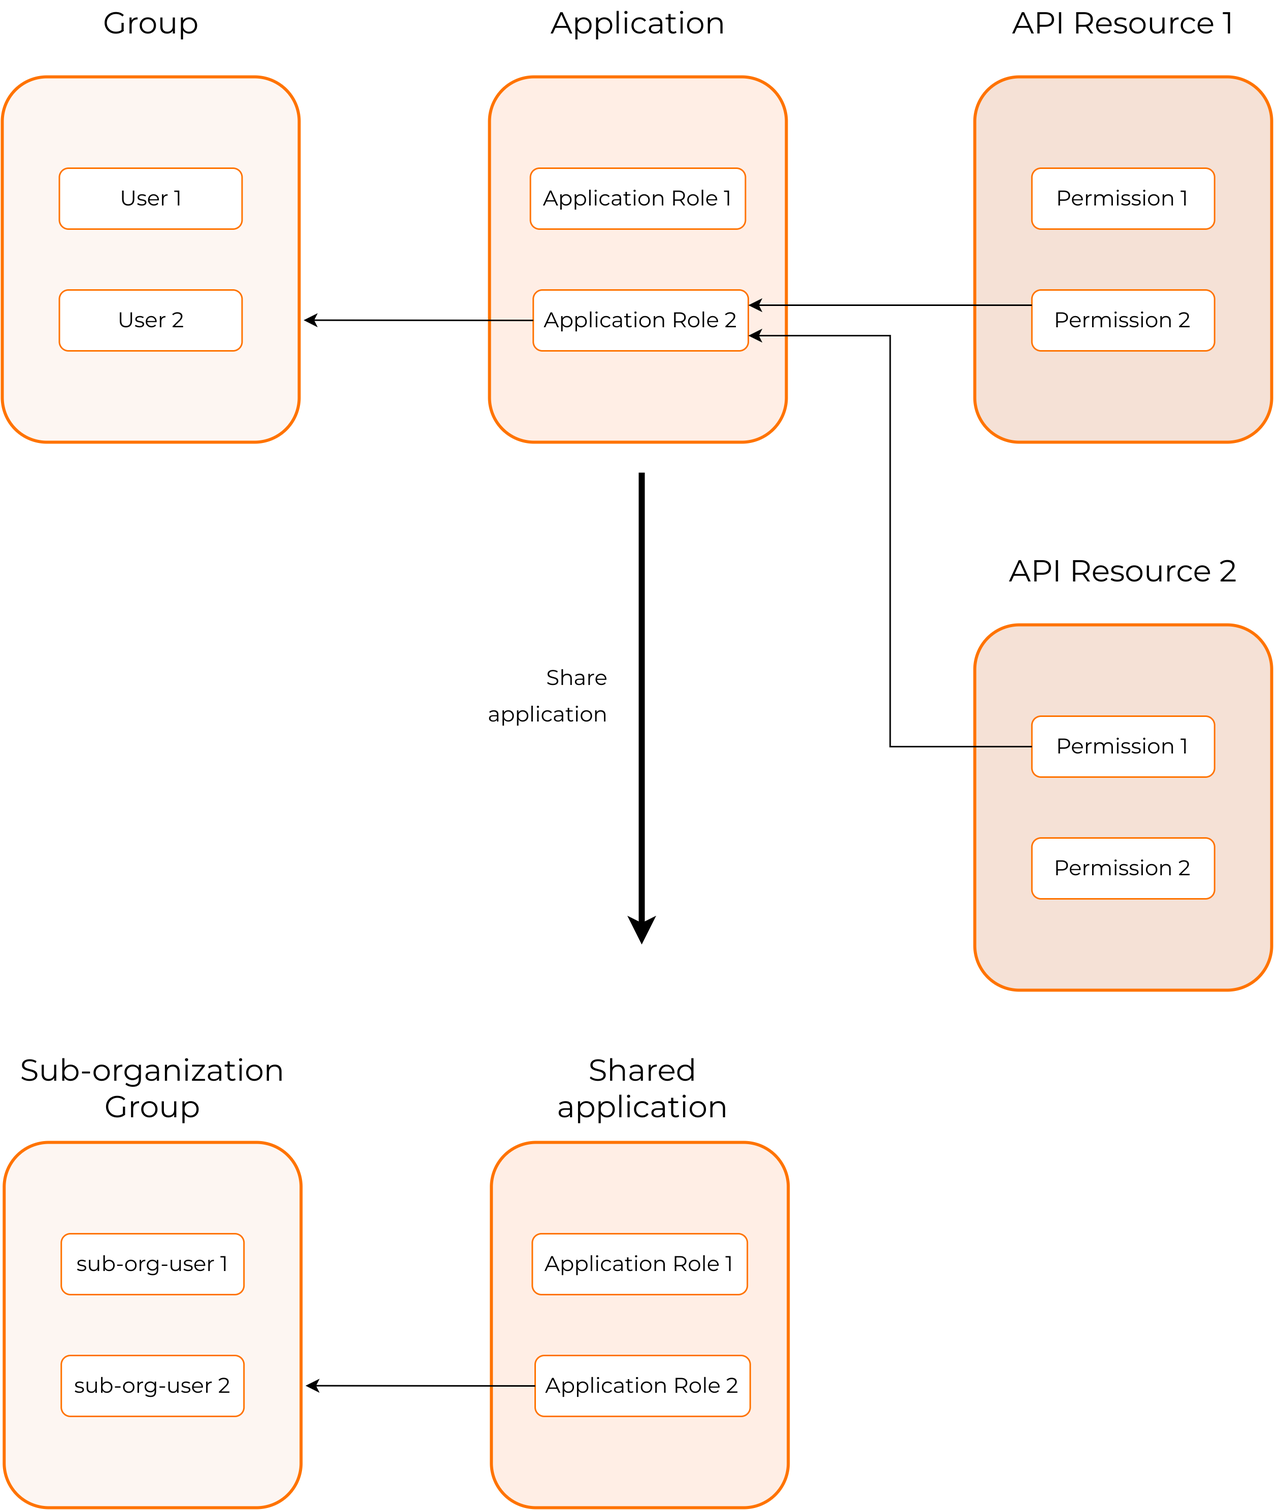
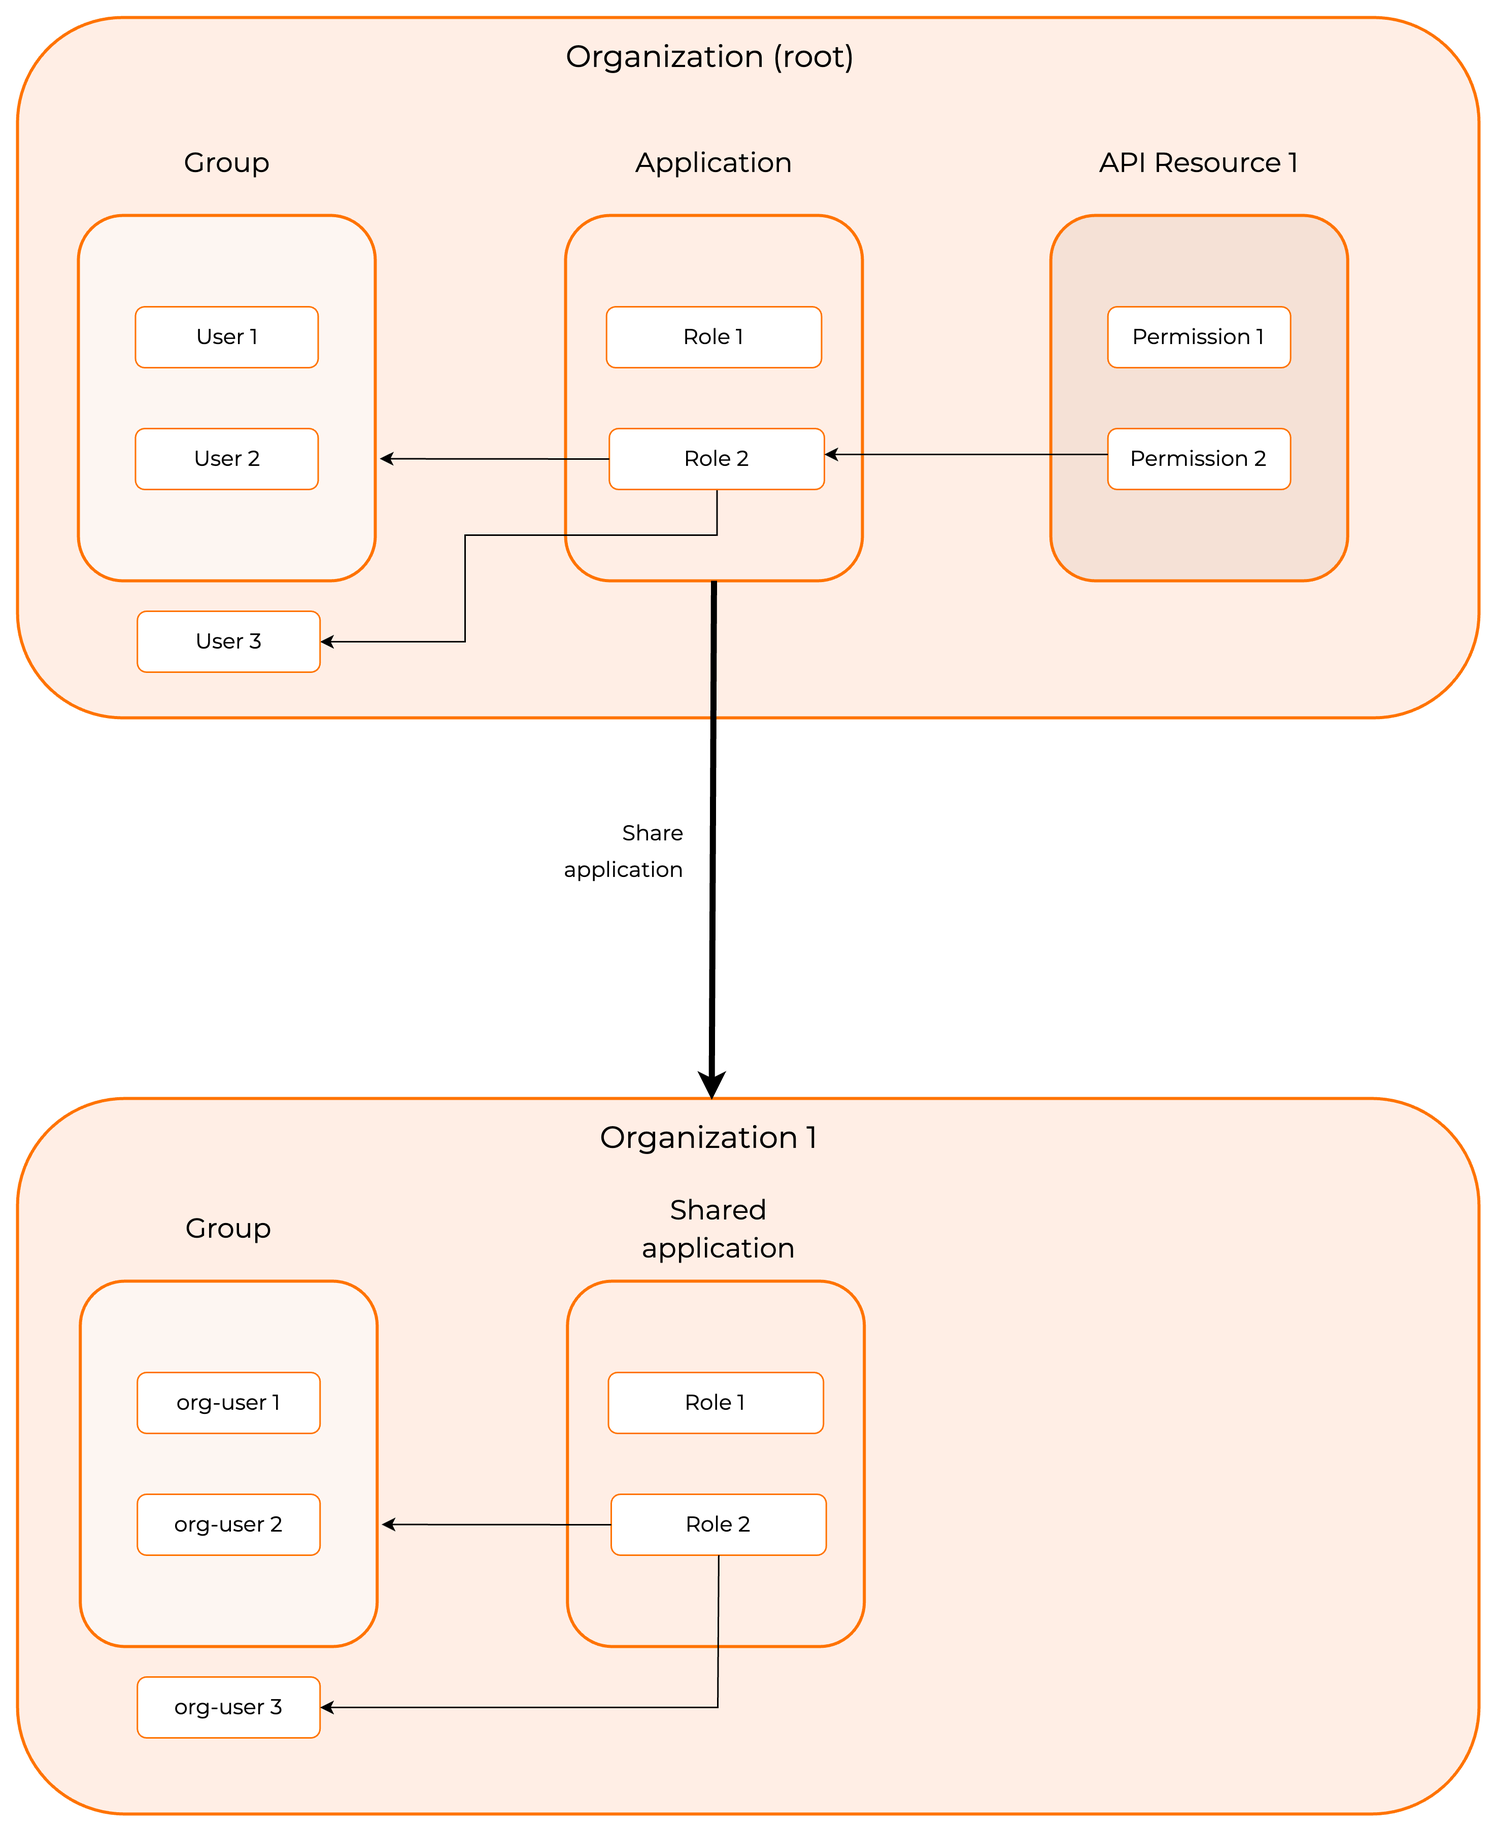
update terminology and images in try b2b use case doc and api authz doc

diff --git a/en/identity-server/next/docs/guides/organization-management/try-a-b2b-use-case.md b/en/identity-server/next/docs/guides/organization-management/try-a-b2b-use-case.md
@@ -1,2 +1,259 @@
 {% set product_name = "WSO2 Identity Server" %}
-{% include "../../../../../includes/guides/organization-management/manage-b2b-organizations/try-a-b2b-use-case.md" %}
+{% set host_name = "localhost:9443" %}
+
+# Try a B2B use case (login through organization)
+
+The following guide is a complete end-to-end use case on how to manage B2B (Business-to-Business) applications in {{ product_name }}.
+
+## Scenario
+
+You are an administrator of **Guardio Insurance**, which is a company that provides its services to other business organizations.
+
+**Best Car Mart** has a partnership with Guardio Insurance to provide life insurance policies to its employees. Guardio Insurance exposes its services to Best Car Mart's employees through its **Guardio Insurance App**.
+
+The employees of Best Car Mart should be able to log in to the Guardio Insurance App to consume its services. The administrators of Best Car Mart will manage the users of its organization and also determine the login experience that their users should have.
+
+![Organizatoin login scenario]({{base_path}}/assets/img/guides/organization/manage-organizations/organization-login-scenario.png){: width="600" style="display: block; margin: 0 auto;"}
+
+## Set up the organization
+
+As the administrator of **Guardio Insurance**, you need to first set up an organization.
+
+### Step 1: Onboard the organization
+
+[Create an organization]({{base_path}}/guides/organization-management/manage-organizations/#create-an-organization) on the {{ product_name }} Console with `Best Car Mart` as the **Organization Name**.
+
+### Step 2: Onboard an organization administrator
+
+[Onboard an administrator]({{base_path}}/guides/organization-management/manage-b2b-administration/#onboard-organization-administrators) to the Best Car Mart organization using the values given below.
+
+<table>
+    <tr>
+        <th>Username</th>
+        <td>Enter a username..</br>
+            <code>alex</code>
+        </td>
+    </tr>
+    <tr>
+        <th>First Name</th>
+        <td>Enter the first name of the user.</br>
+            <code>Alex</code>
+        </td>
+    </tr>
+    <tr>
+        <th>Last Name</th>
+        <td>Enter the last name of the user.</br>
+            <code>Doe</code>
+        </td>
+    </tr>
+    <tr>
+        <th>Email Address</th>
+        <td>Enter the email address of the user.</br>
+            <code>alex@carmart.com</code>
+        </td>
+    </tr>
+    <tr>
+        <th>Password</th>
+        <td>Set a temporary password for the user.</td>
+    </tr>
+</table>
+
+## Set up the app
+The following guides explain how you can share an application with organizations and allow organization users to log in to it using **SSO**.
+
+Let's use the sample application, [Guardio Insurance app](https://github.com/wso2/samples-is/releases/download/v4.5.3/b2b-sample.zip), to explore this use case.
+
+### Step 1: Register the app on {{ product_name }}
+
+Follow the steps given below to register the Guardio Insurance App with {{ product_name }}.
+
+1. Login to organization (root).
+2. [Register a standard-based application]({{base_path}}/guides/applications/register-standard-based-app/) in your organization (root) with the following settings:
+
+    <table>
+        <tr>
+            <th>Application Name</th>
+            <td>Add a name for the application.</br>
+                <code>Guardio App</code>
+            </td>
+        </tr>
+        <tr>
+            <th>Protocol</th>
+            <td>The authentication protocol to use.</br>
+                <code>OAuth2.0 OpenID Connect</code>
+            </td>
+        </tr>
+        <tr>
+            <th>Management Application</th>
+            <td>Select this checkbox to indicate that the application has access to {{ product_name }}'s management APIs.</td>
+        </tr>
+    </table>
+
+### Step 2: Share the app with organizations
+
+Share the <b>Guardio Insurance app</b> with your <b>Best Car Mart</b> sub organization. See instructions on how to [share applications with organizations]({{base_path}}/guides/organization-management/share-applications/).
+
+By doing so, you enable **Sign In with SSO** as a login option in the application login screen, which organization users can use to log in.
+
+### Step 3: Configure the app on {{ product_name }}
+To configure the registered application on {{ product_name }}:
+
+1. On the {{ product_name }} Console, go to **Applications** and select the application you registered.
+2. Go to the **Protocol** tab of the application, configure the following values.
+
+    !!! note
+        Note that the `Organization Switch` grant will only be visible after you share the application with organizations.
+
+    <table>
+        <tr>
+            <th>Allowed Grant Types</th>
+            <td> Select the following grant types:
+                <ul>
+                    <li>Client Credential</li>
+                    <li>Code</li>
+                    <li>Organization Switch</li>
+                </ul>
+            </td>
+        </tr>
+        <tr>
+            <th>Authorization Redirect URL</th>
+            <td>Enter the URLs of the application to which users should be redirected after login and logout.</br>
+                <ul>
+                    <li><code>http://localhost:3000/api/auth/callback/wso2is</code></li>
+                    <li><code>http://localhost:3000</code></li>
+                </ul>
+            </td>
+        </tr>
+        <tr>
+            <th>Allowed Origins</th>
+            <td>Enter the allowed origins.</br>
+                <code>http://localhost:3000</code>
+            </td>
+        </tr>
+    </table>
+    
+    Take note of the `client_id` and `client_secret` generated for your application.
+
+3. Click **Update** to save your configurations.
+
+### Step 4: Set up the client app
+
+To set up the client application:
+
+1. Open the `config.json` file found in the `b2b-sample/guardio-insurance-sample-application` folder and update the following parameters:
+
+    <table>
+        <tr>
+            <th>Parameter</th>
+            <th>Description</th>
+            <th>Value</th>
+        </tr>
+        <tr>
+            <td><code>BaseOrganizationUrl</code></td>
+            <td>The base URL of the organization.</td>
+            <td><code>https://{{ host_name }}/t/{organization-name}</code>
+            </td>
+        </tr>
+        <tr>
+            <td><code>ClientId</code></td>
+            <td>The client ID of the application created on {{ product_name }}.</td>
+            <td>Client ID copied from step 1 above.</td>
+        </tr>
+        <tr>
+            <td><code>ClientSecret</code></td>
+            <td>The client secret of the application created on {{ product_name }}.</td>
+            <td>Client secret copied from step 1 above.</td>
+        </tr>
+        <tr>
+            <td><code>HostedUrl</code></td>
+            <td>The URL of the client application.</td>
+            <td><code>http://localhost:3000</code></td>
+        </tr>
+        <tr>
+            <td><code>APIScopes</code></td>
+            <td>The scopes required by the application to access user resources.</td>
+            <td><code>openid</code>, <code>email</code>, <code>internal_login</code>, etc.</td>
+        </tr>
+        <tr>
+            <td><code>Branding.name</code></td>
+            <td>The branding name of your application.</td>
+            <td><code>Guardio Insurance</code></td>
+        </tr>
+        <tr>
+            <td><code>Branding.tag</code></td>
+            <td>A branding tag line for your application.</td>
+            <td><code>Anytime . Anywhere</code></td>
+        </tr>
+        <tr>
+            <td><code>SharedApplicationName</code></td>
+            <td>The application name you used to register the application in {{ product_name }}.</td>
+            <td><code>Guardio Insurance App</code></td>
+        </tr>
+        <tr>
+            <td><code>ImageBaseUrl</code></td>
+            <td>Add the URL of {{ product_name }} Console to load images required for the sample application.</td>
+            <td><code>https://console.asgardeo.io</code></td>
+        </tr>
+    </table>
+   
+    !!! note
+        Remove the `SampleOrganization` section from the `config.json` file as it is not required for {{ product_name }} configurations.
+
+2. To start the application, open a terminal, navigate to the `b2b-sample/guardio-insurance-sample-application` folder and execute the following commands:
+
+    ```bash
+    npm install
+    ```
+
+    ```bash
+    npm run dev
+    ```
+
+## Try it out
+
+The following guides explain how an organization user can log in to the sample application, **Guardio Insurance App** and how an organization administrator can use the built-in administration portal.
+
+### Try out Sign In with SSO
+
+Follow the steps below to see how organization login works for a user in the **Best Car Mart** organization when logging into **Guardio Insurance App**.
+
+1. Open the application by copying the following URL to your browser: `http://localhost:3000/`
+
+    ![Guardio Application Login]({{base_path}}/assets/img/guides/organization/manage-organizations/guardio-app-login.png){: style="display: block; margin: 0 auto; border: 0.3px solid lightgrey;"}
+
+2. Click **Sign In** and see that you are diverted to the {{ product_name }} login screen.
+
+3. Click **Sign In with SSO** to specify the organization to which you are signing in.
+
+4. Enter **Best Car Mart** as the organization name and click **Submit**.
+
+    ![Sign in with SSO]({{base_path}}/assets/img/guides/organization/manage-organizations/sign-in-with-sso.png){: width="400" style="display: block; margin: 0 auto; border: 0.3px solid lightgrey;"}
+
+5. Enter the username and password of a user who you have onboarded to Best Car Mart.
+
+6. Click **Sign in** and grant permission for the application to access your user attributes.
+
+   You have successfully logged into the **Guardio Insurance App** as a user of the **Best Car Mart** organization.
+
+### Try out the administration portal
+
+!!! note
+    Learn how to build an administration portal for your B2B application in the [implement an administration portal]({{base_path}}/guides/organization-management/manage-b2b-administration/#implement-an-administration-portal) section.
+
+**Best Car Mart** needs to manage its employees through an external IdP. As the administrator of Best Car Mart, Alex, is tasked with enabling login from the external IdP for Best Car Mart employees.
+
+To configure an identity provider for **Guardio Insurance App**:
+
+1. [Log in to the application](#try-out-organization-login) with the credentials of Alex.
+
+2. On the application, go to **Settings** > **Identity Providers** and click **Add Identity Provider**.
+
+    ![Logged into best auto mart]({{base_path}}/assets/img/guides/organization/manage-organizations/best-auto-mart-org-app.png){: width="700" style="display: block; margin: 0 auto; border: 0.3px solid lightgrey;"}
+
+3. Select **Google** if you are onboarding a Google IdP or **Enterprise** if you are onboarding an enterprise IdP.
+
+    ![Select Identity Provider method]({{base_path}}/assets/img/guides/organization/manage-organizations/select-idp-method.png){: width="600" style="display: block; margin: 0 auto; border: 0.3px solid lightgrey;"}
+
+4. Provide the details specific to your IdP and click **Create**.
+
+5. Click **Add to login flow** to enable this IdP as the login option for Best Car Mart users in the application.

diff --git a/en/identity-server/next/docs/guides/organization-management/api-authorization-for-b2b.md b/en/identity-server/next/docs/guides/organization-management/api-authorization-for-b2b.md
@@ -1,2 +1,102 @@
 {% set product_name = "WSO2 Identity Server" %}
-{% include "../../../../../includes/guides/organization-management/manage-b2b-organizations/api-authorization-for-b2b.md" %}
+
+# API authorization for organizations
+{{ product_name }} allows organizations to authorize user access to an application's API resources based on the API permissions, roles, and groups assigned to the users. See [API authorization]({{base_path}}/guides/api-authorization/) for more information.
+
+API resources are created and authorized for applications on the organization (root). If the application consuming the API resources is shared with the organization, all application-specific configurations of API resources are inherited by the organization.
+
+![The relationship between terms]({{base_path}}/assets/img/guides/api-authorization/b2b-api-authorization.png){: width="700" style="display: block; margin: 0 auto;"}
+
+## Prerequisites
+You need to configure your API resources on the organization (root)
+
+1. [Register an API resource]({{base_path}}/guides/api-authorization/#register-an-api-resource)
+2. [Authorize the API resource to an app]({{base_path}}/guides/api-authorization/#authorize-the-api-resources-for-an-app)
+3. [Create roles]({{base_path}}/guides/api-authorization/#create-application-roles)
+
+Organizations have the roles associated with their shared applications. Shared roles of organizations inherit the permission assignment to the role from the organization (root).
+
+!!! note "Roles of an organization"
+    The shared roles in organizations will inherit the permission to role assignments from the organization (root).
+
+    Users and group assignment to the roles should be done separately for the organization, as the organization does not inherit the users or groups from the organization (root).
+
+    ![Roles inherited from the organization (root)]({{base_path}}/assets/img/guides/api-authorization/b2b-inherited-roles.png){: width="700" style="display: block; margin: 0 auto; border: 0.3px solid lightgrey;"}
+
+Organization administrators cannot create new roles, modify name or permissions of the shared roles, or delete the shared roles, but you can assign these roles to your organization users and groups.
+
+## Assign organization users to roles
+To assign roles to users of the organization:
+
+1. On the {{ product_name }} Console, [switch to the organization]({{base_path}}/guides/organization-management/manage-organizations/#switch-between-organizations).
+2. Go to **User Management** > **Roles**.
+3. Select the role you wish to assign to a user and click **Edit**.
+4. Go to Users and click **Assign Users**.
+5. Select the user who should be assigned to the selected role.
+6. Click **Update** to complete the role to user assignment.
+
+## Assign organization groups to roles
+
+Organizations maintain the following types of groups, and you can assign your application roles to any of these groups.
+
+- [Groups](#assign-user-groups-to-roles) - A collection of organization users.
+- [Federated IdP Groups](#assign-federated-idp-groups-to-roles) - These groups are federated from connections on the organization. For example, groups federated from the Google connection.
+
+### Assign user groups to roles
+To assign roles to user groups of the organization:
+
+1. On the {{ product_name }} Console, [switch to the organization]({{base_path}}/guides/organization-management/manage-organizations/#switch-between-organizations).
+2. Go to **User Management** > **Roles**.
+3. Select the role you wish to assign to a group and click **Edit**.
+4. Go to Groups and click **Assign Groups**.
+5. Select the group which should be assigned to the selected role.
+6. Click **Update** to complete the role to group assignment.
+
+### Assign federated IdP groups to roles
+To assign roles to federated IdP Groups:
+
+!!! note "Before you begin"
+    To get started,
+
+    - You should [register, configure, and create groups for a connection]({{base_path}}/guides/authentication/#manage-connections) in your organization.
+    - You should add this connection to the sign-in flow of the application to which the roles are associated.
+
+1. On the {{ product_name }} Console, [switch to the organization]({{base_path}}/guides/organization-management/manage-suborganizations/#switch-between-organizations).
+2. Go to **User Management** > **Roles**.
+3. Select the role you wish to assign to a group and click **Edit**.
+4. Select the federated IdP from which you select groups.
+5. Select the group which should be assigned to the selected role.
+6. Click **Update** to complete the role to group assignment.
+
+## Try it out
+
+Follow the steps given below to try out the RBAC flow:
+
+!!! note
+    Note that we are using {{ product_name }}'s [B2B Guardio insurance application]({{base_path}}/guides/organization-management/manage-b2b-organizations/try-a-b2b-use-case/) for this scenario.
+
+To request scopes for the user:
+
+1. Add the new scopes to the `APIScope` parameter of the `config.js` file of the sample application. You need to request these new scopes in addition to the OIDC scopes of your application.
+
+    To get the scopes:
+
+    1. On the {{ product_name }} Console, log in to the organization(root).
+    2. Go to **Applications** and select your application.
+    3. Copy the scopes listed at the end of the **API Authorization** section
+
+        ![Additional scopes to access the API resource]({{base_path}}/assets/img/guides/api-authorization/additional-scopes.png){: width="700" style="display: block; margin: 0 auto; border: 0.3px solid lightgrey;"}
+
+    !!! tip
+        When you add scopes to the configuration file, add them as comma-separated values.
+
+2. Access the application URL.
+3. Try to log in as a user with a group and permission to access the API resource.
+
+    Upon successful login, you will see the permission/scopes allowed for the user on the user consent page.
+
+4. Click **Allow**. You will now be redirected to the application.
+   You will be able to see the assigned permissions on the `allowedScopes` parameter of the authentication response.
+
+!!! note "If you are switching organizations"
+    If the user switches the organization to another organization, the scopes will be updated according to the roles assigned to the user in the switched organization.

diff --git a/en/includes/guides/organization-management/manage-b2b-organizations/try-a-b2b-use-case.md b/en/includes/guides/organization-management/manage-b2b-organizations/try-a-b2b-use-case.md
@@ -23,7 +23,7 @@ As the administrator of **Guardio Insurance**, you need to first set up a sub or
 
 [Create a sub  organization]({{base_path}}/guides/organization-management/manage-b2b-organizations/manage-suborganizations/#create-a-suborganization) on the {{ product_name }} Console with `Best Car Mart` as the **Sub organization Name**.
 
-### Step 2: Onboard a sub organziation administrator
+### Step 2: Onboard a sub organization administrator
 
 [Onboard an administrator]({{base_path}}/guides/organization-management/manage-b2b-organizations/manage-b2b-administration/#onboard-suborganization-administrators) to the Best Car Mart organization using the values given below.
 
@@ -143,7 +143,7 @@ To set up the client application:
         <tr>
             <td><code>BaseOrganizationUrl</code></td>
             <td>The base URL of the organization.</td>
-            <td><code>https://api.asgardeo.io/t/{organization-name}</code>
+            <td><code>https://{{ host_name }}/t/{organization-name}</code>
             </td>
         </tr>
         <tr>
@@ -173,7 +173,7 @@ To set up the client application:
         </tr>
         <tr>
             <td><code>Branding.tag</code></td>
-            <td>A branding tag line for your apllication.</td>
+            <td>A branding tag line for your application.</td>
             <td><code>Anytime . Anywhere</code></td>
         </tr>
         <tr>

diff --git a/en/asgardeo/docs/guides/organization-management/manage-b2b-organizations/try-a-b2b-use-case.md b/en/asgardeo/docs/guides/organization-management/manage-b2b-organizations/try-a-b2b-use-case.md
@@ -1,2 +1,3 @@
 {% set product_name = "Asgardeo" %}
+{% set host_name = "api.asgardeo.io" %}
 {% include "../../../../../includes/guides/organization-management/manage-b2b-organizations/try-a-b2b-use-case.md" %}
